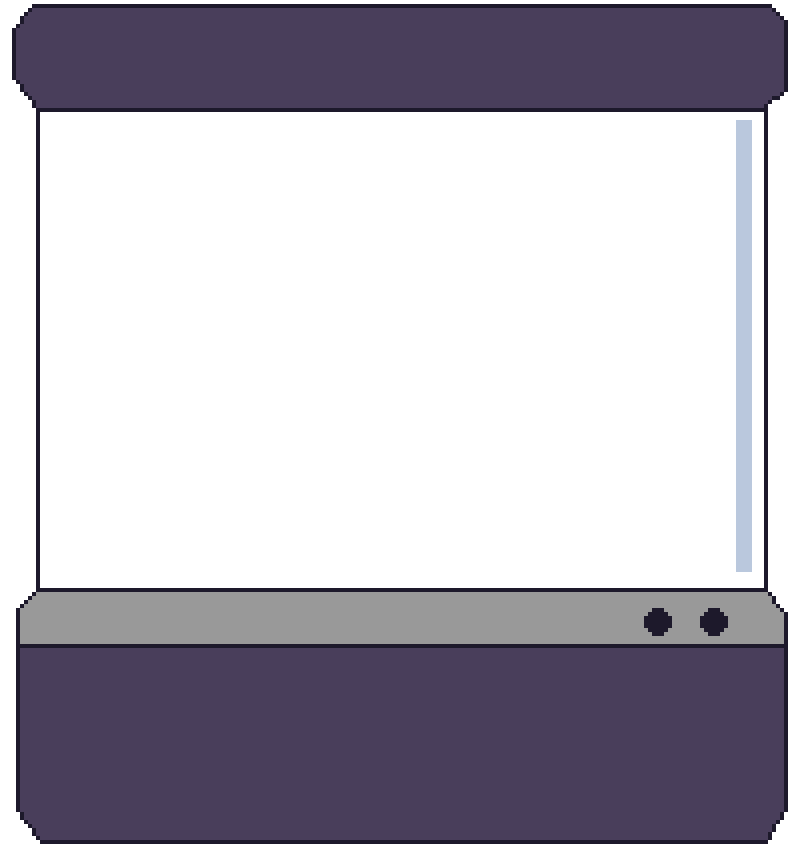
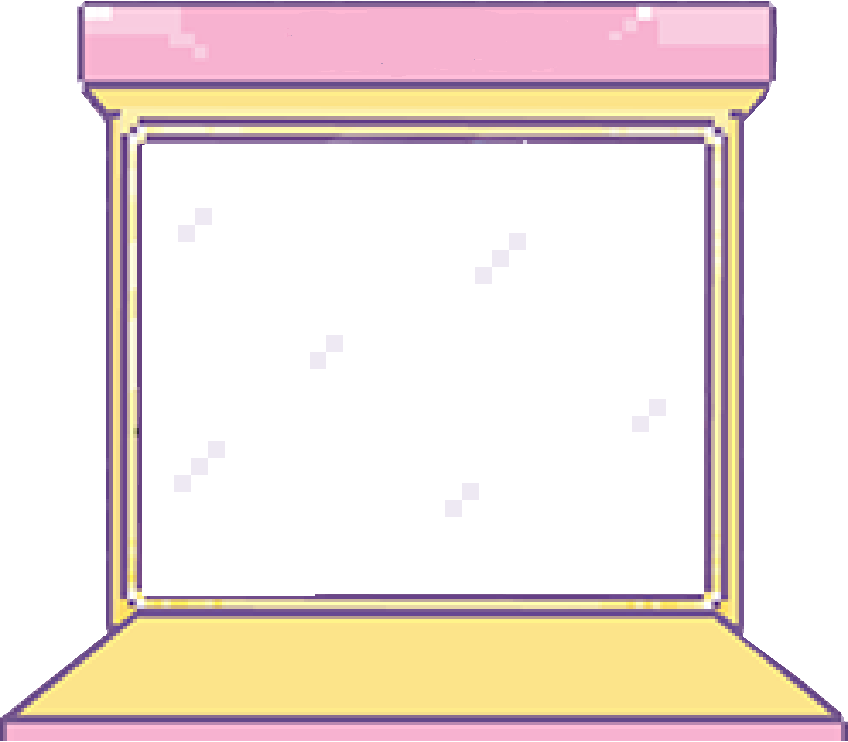
new machine, score message, cable

diff --git a/src/components/ClawMachine.jsx b/src/components/ClawMachine.jsx
@@ -1,5 +1,6 @@
-import claw from "../assets/sprites/claw.png";
-import machine from "../assets/machine3.png";
+import claw from "../assets/sprites/claw33.png";
+import cable from "../assets/sprites/cable.png";
+import machine from "../assets/machine.png";
 import Controls from "./Controls"; // ✅ import it
 import { useEffect, useState } from "react";
 
@@ -15,9 +16,23 @@ export default function ClawMachine({
   moveLeft,
   moveRight,
   grab,
+  scoreMessage,
 }) {
   // در داخل کامپوننت ClawMachine
   const [animatedItems, setAnimatedItems] = useState({});
+  const [rotateDirection, setRotateDirection] = useState(true);
+
+  useEffect(() => {
+    if (clawDropDepth === 0 && !isGrabbing) {
+      const interval = setInterval(() => {
+        setRotateDirection((d) => !d);
+      }, 1000); // هر ۱ ثانیه تغییر جهت چرخش
+
+      return () => clearInterval(interval);
+    } else {
+      setRotateDirection(true); // reset rotation state when moving
+    }
+  }, [clawDropDepth, isGrabbing]);
 
   useEffect(() => {
     const interval = setInterval(() => {
@@ -48,30 +63,80 @@ export default function ClawMachine({
         className="absolute top-0 left-1/2 transform -translate-x-1/2 h-full object-contain pointer-events-none z-20"
       />
 
+      {/* Score message box inside ClawMachine */}
+      <div
+        className="absolute left-1/2 transform -translate-x-1/2 z-50 flex items-center justify-center px-4 py-2"
+        style={{
+          backgroundColor: "#f9cce0",
+          minWidth: "250px",
+          height: "35px",
+          top: "10px",
+          color: "#1d192b",
+          borderRadius: "6px",
+        }}
+      >
+        {scoreMessage ? (
+          <span className="text-center font-bold animate-blink text-xl">
+            {scoreMessage}
+          </span>
+        ) : (
+          <span className="text-center font-bold text-xl invisible">
+            &nbsp;
+          </span>
+        )}
+      </div>
       {/* Play area inside the glass of the claw machine */}
       <div
         className="absolute left-1/2 transform -translate-x-1/2 flex flex-col items-center z-10"
         style={{
-          top: "65px",
+          top: "90px",
           width: `${GLASS_WIDTH}px`,
           height: `${GLASS_HEIGHT}px`,
         }}
       >
         {/* 🔳 Semi-transparent dark overlay */}
         <div className="absolute top-0 left-0 w-full h-full bg-white bg-opacity-30 z-10" />
-        {/* Claw */}
+
+        {/* Claw (fixed cable + moving claw head) */}
         <div
-          className="absolute z-10 z-50"
+          className="absolute z-50"
           style={{
             left: `${translateX}px`,
             top: 0,
             width: CELL,
-            height: CELL,
-            transform: `translateY(${clawDropDepth}px)`,
-            transition: "left 0.3s ease-in-out, transform 0.5s ease",
+            transition: "left 0.3s ease-in-out", // ✅ smooth horizontal movement
           }}
         >
-          <img src={claw} alt="claw" className="w-full h-full" />
+          {/* Cable - stretches from top */}
+          <div
+            style={{
+              width: "100%",
+              height: `${Math.max(0, clawDropDepth)}px`,
+              backgroundImage: `url(${cable})`,
+              backgroundRepeat: "repeat-y",
+              backgroundPosition: "top center",
+              backgroundSize: "100% auto",
+              transition: "height 0.5s ease", // ✅ smooth cable stretch
+            }}
+          />
+
+          {/* Claw image - drops smoothly */}
+          <img
+            src={claw}
+            alt="claw"
+            style={{
+              position: "absolute",
+              top: 0,
+              width: "100%",
+              height: `${CELL}px`,
+              transformOrigin: "top center",
+              transition: "transform 0.5s ease",
+              transform:
+                clawDropDepth === 0 && !isGrabbing
+                  ? `rotate(${rotateDirection ? 5 : -5}deg)`
+                  : `translateY(${clawDropDepth}px) rotate(0deg)`,
+            }}
+          />
         </div>
 
         {/* Grid */}

diff --git a/src/components/Game.jsx b/src/components/Game.jsx
@@ -11,8 +11,8 @@ import Characters from "./Characters";
 const MAX_ROWS = 3;
 const COLS = 7;
 const GAME_TIME = 500;
-const GLASS_WIDTH = 410;
-const GLASS_HEIGHT = 265;
+const GLASS_WIDTH = 365;
+const GLASS_HEIGHT = 295;
 const CELL = GLASS_WIDTH / COLS;
 
 function generateGrid() {
@@ -37,6 +37,7 @@ export default function Game() {
   const [minaEmotion, setMinaEmotion] = useState("idle");
   const [timeLeft, setTimeLeft] = useState(GAME_TIME);
   const [isGrabbing, setIsGrabbing] = useState(false);
+  const [scoreMessage, setScoreMessage] = useState("");
 
   useEffect(() => {
     if (timeLeft <= 0) {
@@ -71,6 +72,17 @@ export default function Game() {
 
         setScore((s) => s + grabbed.value);
         setMinaEmotion(grabbed.value > 0 ? "happy" : "sad");
+
+        // تنظیم پیام نمره
+        setScoreMessage(
+          grabbed.value > 0
+            ? `You scored ${grabbed.value} points!`
+            : `You lost ${Math.abs(grabbed.value)} points!`
+        );
+
+        // پاک کردن پیام بعد از ۲ ثانیه
+        setTimeout(() => setScoreMessage(""), 2000);
+
         setTimeout(() => setMinaEmotion("idle"), 1200);
       }
       setIsGrabbing(false);
@@ -133,6 +145,7 @@ export default function Game() {
             moveLeft={moveLeft}
             moveRight={moveRight}
             grab={grab}
+            scoreMessage={scoreMessage}
           />
 
           {/* Use Characters component here */}

diff --git a/tailwind.config.js b/tailwind.config.js
@@ -6,16 +6,21 @@ module.exports = {
       fontFamily: {
         pixel: ['"Pixelify Sans"', "monospace"],
       },
-    },
-    keyframes: {
-      jump: {
-        "0%": { transform: "translateY(0)" },
-        "30%": { transform: "translateY(-20px)" },
-        "100%": { transform: "translateY(0)" },
+      keyframes: {
+        jump: {
+          "0%": { transform: "translateY(0)" },
+          "30%": { transform: "translateY(-20px)" },
+          "100%": { transform: "translateY(0)" },
+        },
+        blink: {
+          "0%, 100%": { opacity: "1" },
+          "50%": { opacity: "0" },
+        },
       },
-    },
-    animation: {
-      jump: "jump 0.4s ease",
+      animation: {
+        jump: "jump 0.4s ease",
+        blink: "blink 1s step-start infinite",
+      },
     },
   },
   plugins: [],

diff --git a/src/components/Characters.jsx b/src/components/Characters.jsx
@@ -73,7 +73,7 @@ export default function Characters({ minaEmotion }) {
         className="absolute z-30"
         style={{
           bottom: "0px",
-          left: "calc(50% + 230px)",
+          left: "calc(50% + 250px)",
           transform: isJumping
             ? "translateY(-20px)"
             : `scale(${minaBreathing ? 1.01 : 1}) translateY(0)`,
@@ -100,7 +100,7 @@ export default function Characters({ minaEmotion }) {
         className="absolute z-30"
         style={{
           bottom: "0px",
-          right: "calc(50% + 230px)",
+          right: "calc(50% + 250px)",
           transform: `scaleX(-1) scale(${parsaBreathing ? 1.01 : 1})`,
           transition: "transform 0.5s ease",
         }}

diff --git a/src/components/Controls.jsx b/src/components/Controls.jsx
@@ -8,16 +8,16 @@ export default function Controls({ moveLeft, moveRight, grab, isGrabbing }) {
   return (
     <div
       className="absolute left-1/2 transform -translate-x-1/2 flex gap-4 z-30"
-      style={{ top: "380px" }}
+      style={{ top: "400px" }}
     >
       <SquareGameButton
         onClick={moveLeft}
         labelImg={leftArrow}
-        width={64}
-        height={64}
+        width={60}
+        height={60}
       />
 
-      <RoundGameButton onClick={grab} size={70} />
+      <RoundGameButton onClick={grab} size={65} />
 
       <SquareGameButton
         onClick={moveRight}
